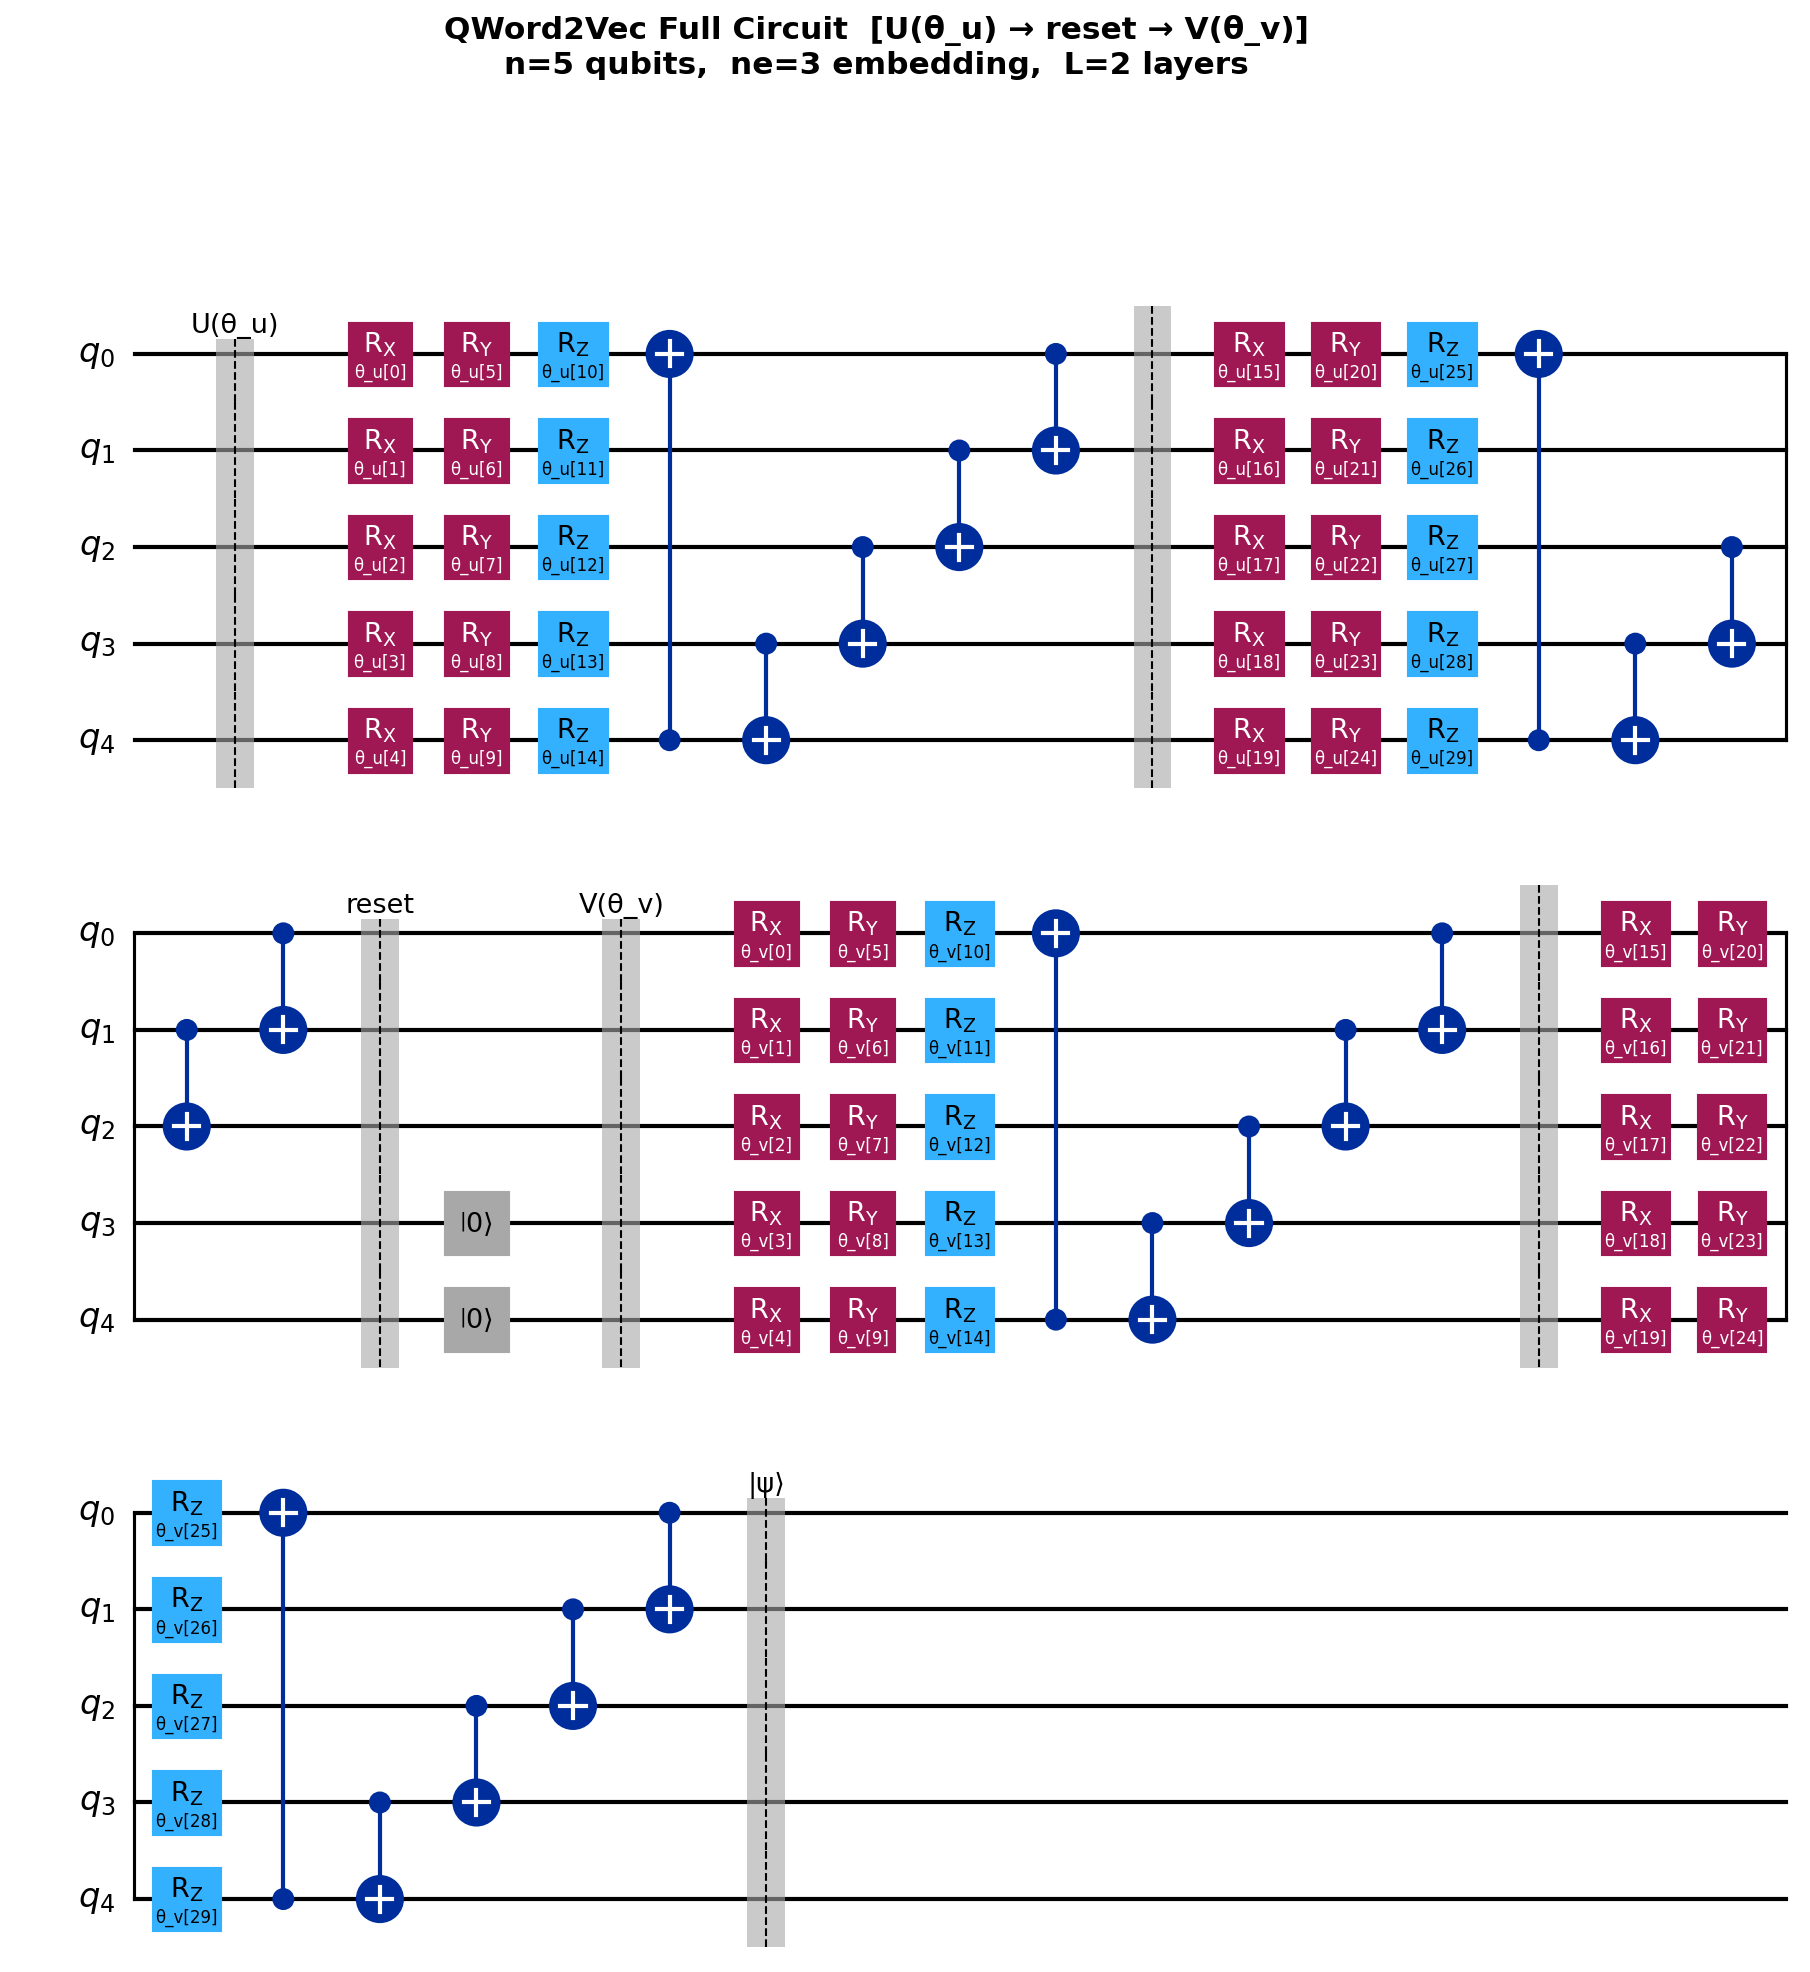
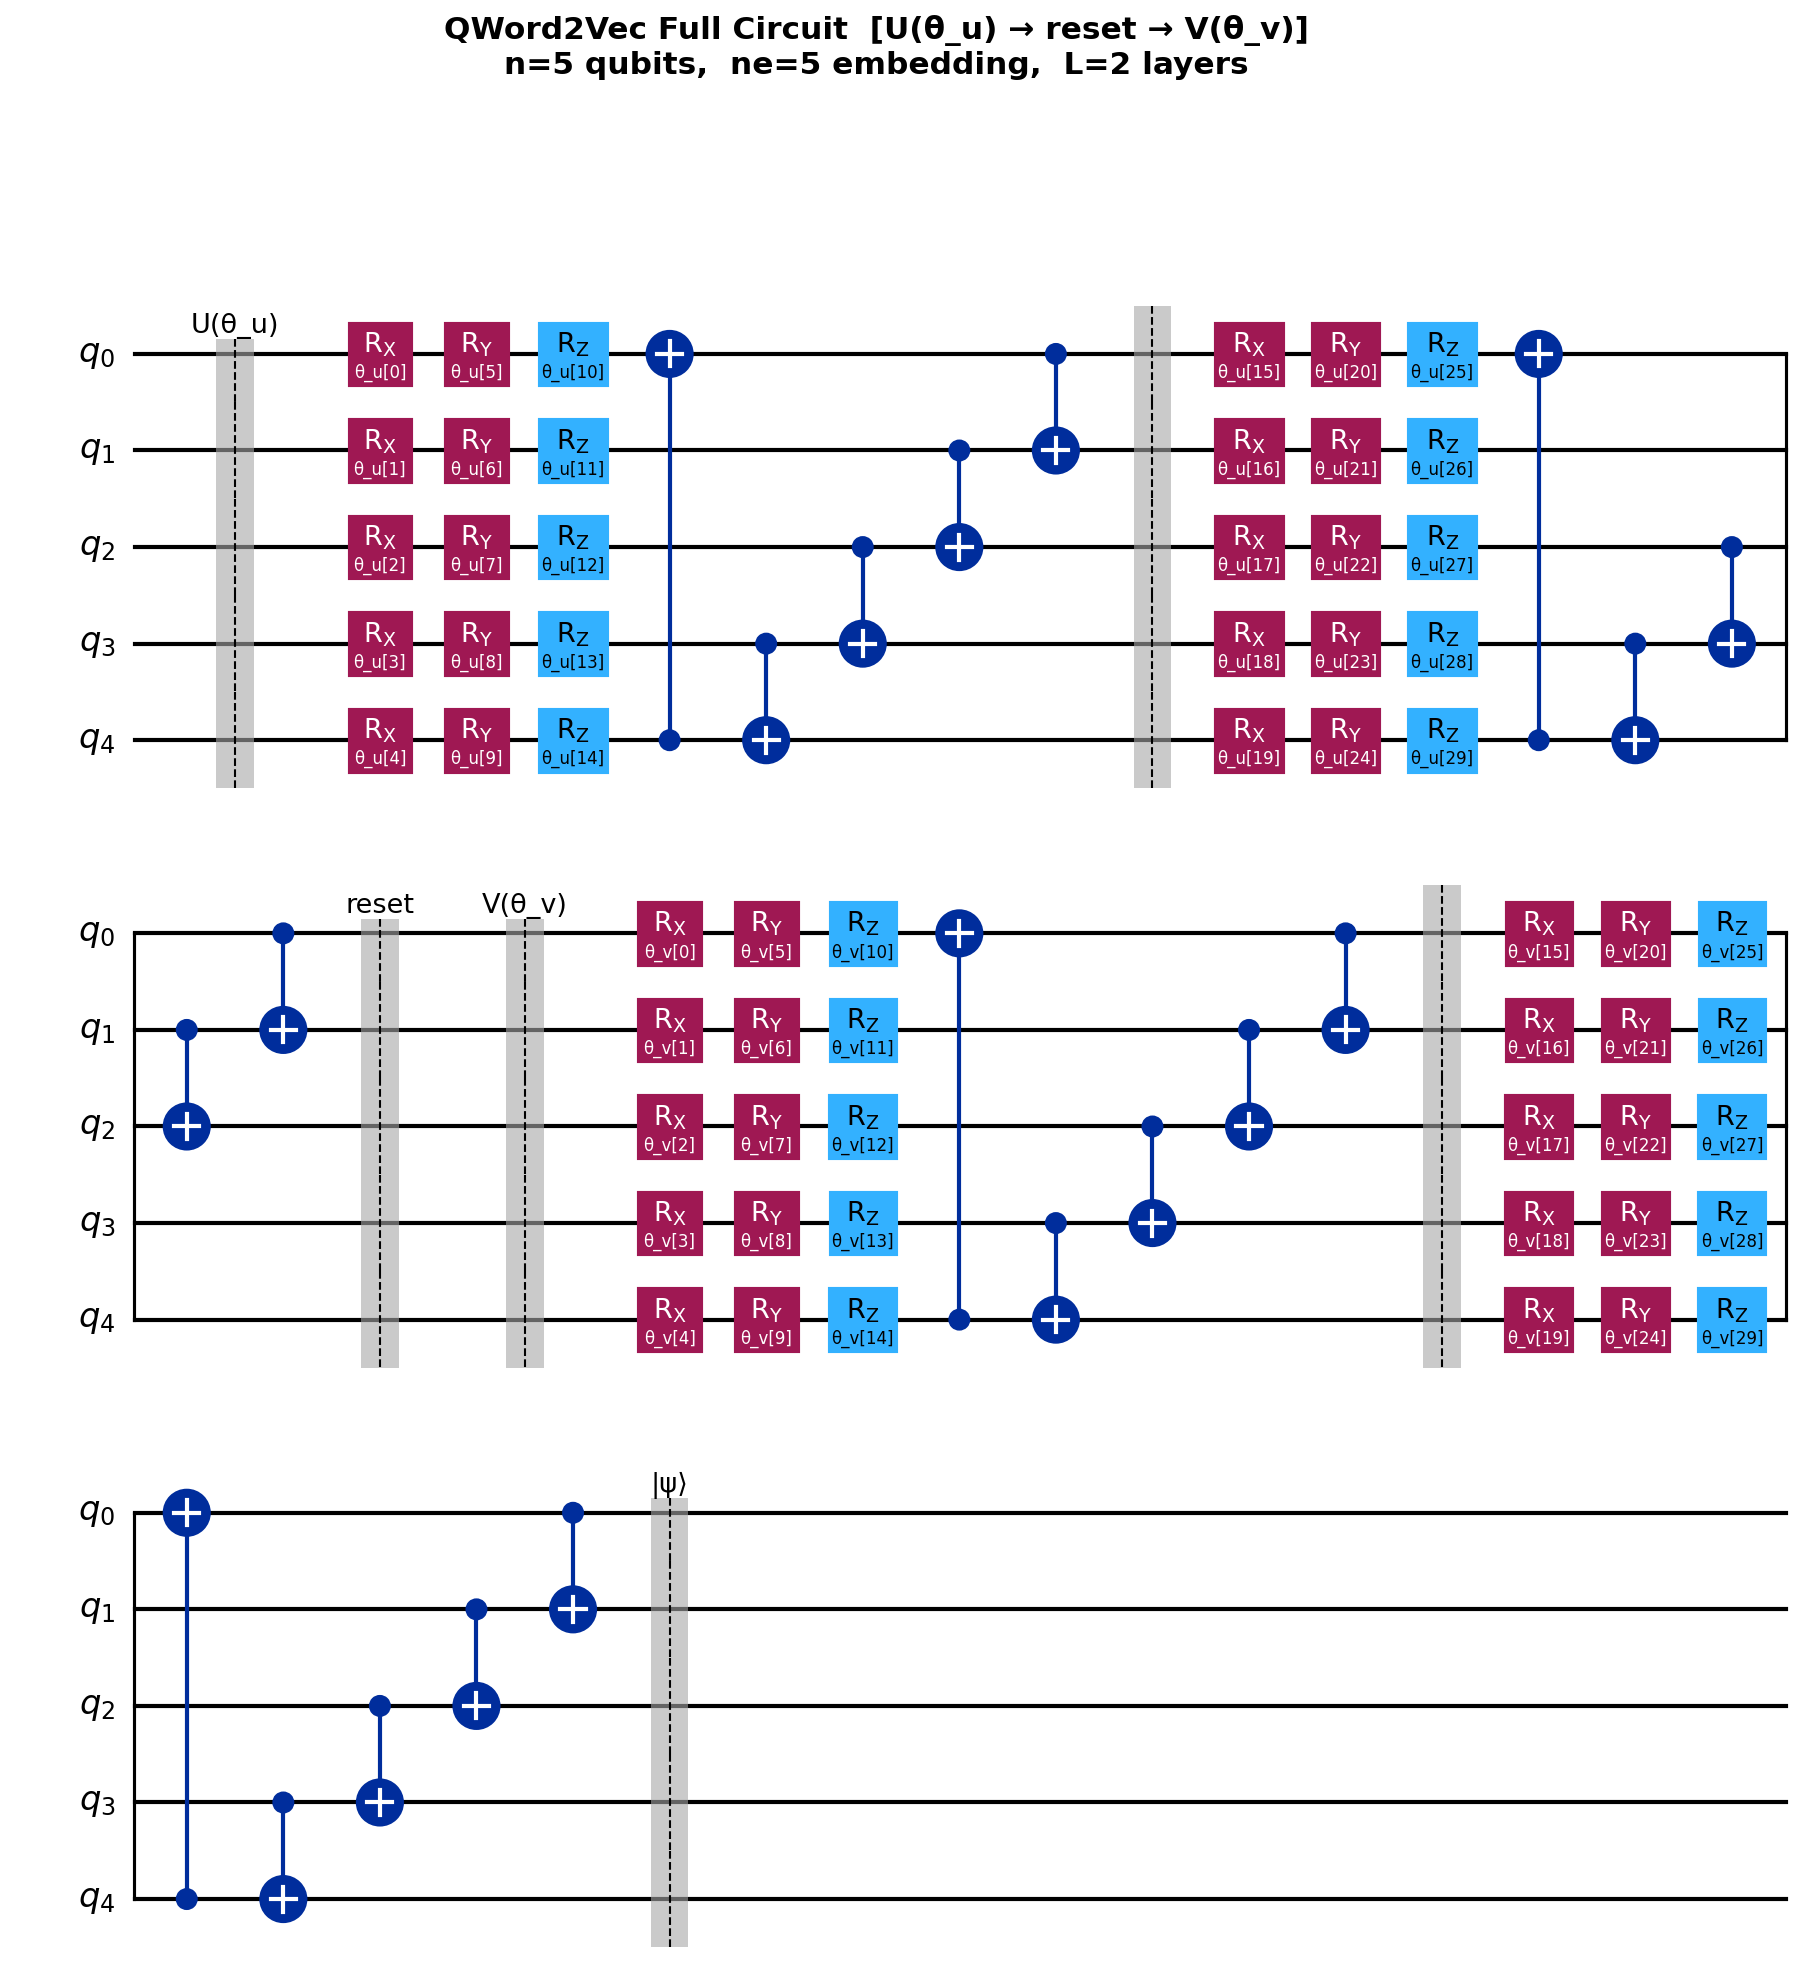
Small comments fixed qWord2Vec

diff --git a/Practice/qWord2Vec.py b/Practice/qWord2Vec.py
@@ -99,7 +99,6 @@ def get_error_probability(n, ne):
 def estimate_num_layers(n_qubits, n_embedding_qubits, num_data, ath):
     """
     Heuristic formula for estimating L (number of layers).
-    L = ceil( #data / (3 * (n + ne) * Ath * p(n, ne)) )
     """
     p = get_error_probability(n_qubits, n_embedding_qubits)
 
@@ -109,12 +108,6 @@ def estimate_num_layers(n_qubits, n_embedding_qubits, num_data, ath):
 
 
 def get_entangling_layer(num_qubits):
-    """
-
-    General pattern for n qubits:
-      CX(0, n-1)                    <- jump from top to bottom
-      CX(n-1, n-2), CX(n-2, n-3), ..., CX(2, 1)   <- staircase up
-    """
     qc = QuantumCircuit(num_qubits)
     if num_qubits > 1:
         qc.cx(num_qubits - 1, 0)
@@ -637,7 +630,7 @@ if __name__ == "__main__":
     # System size
     n_qubits = 5
     # Embedding size
-    n_embedding = 3
+    n_embedding = 5
 
     print(f"--- Q-Word2Vec Full Model (n={n_qubits}, ne={n_embedding}) ---")
 